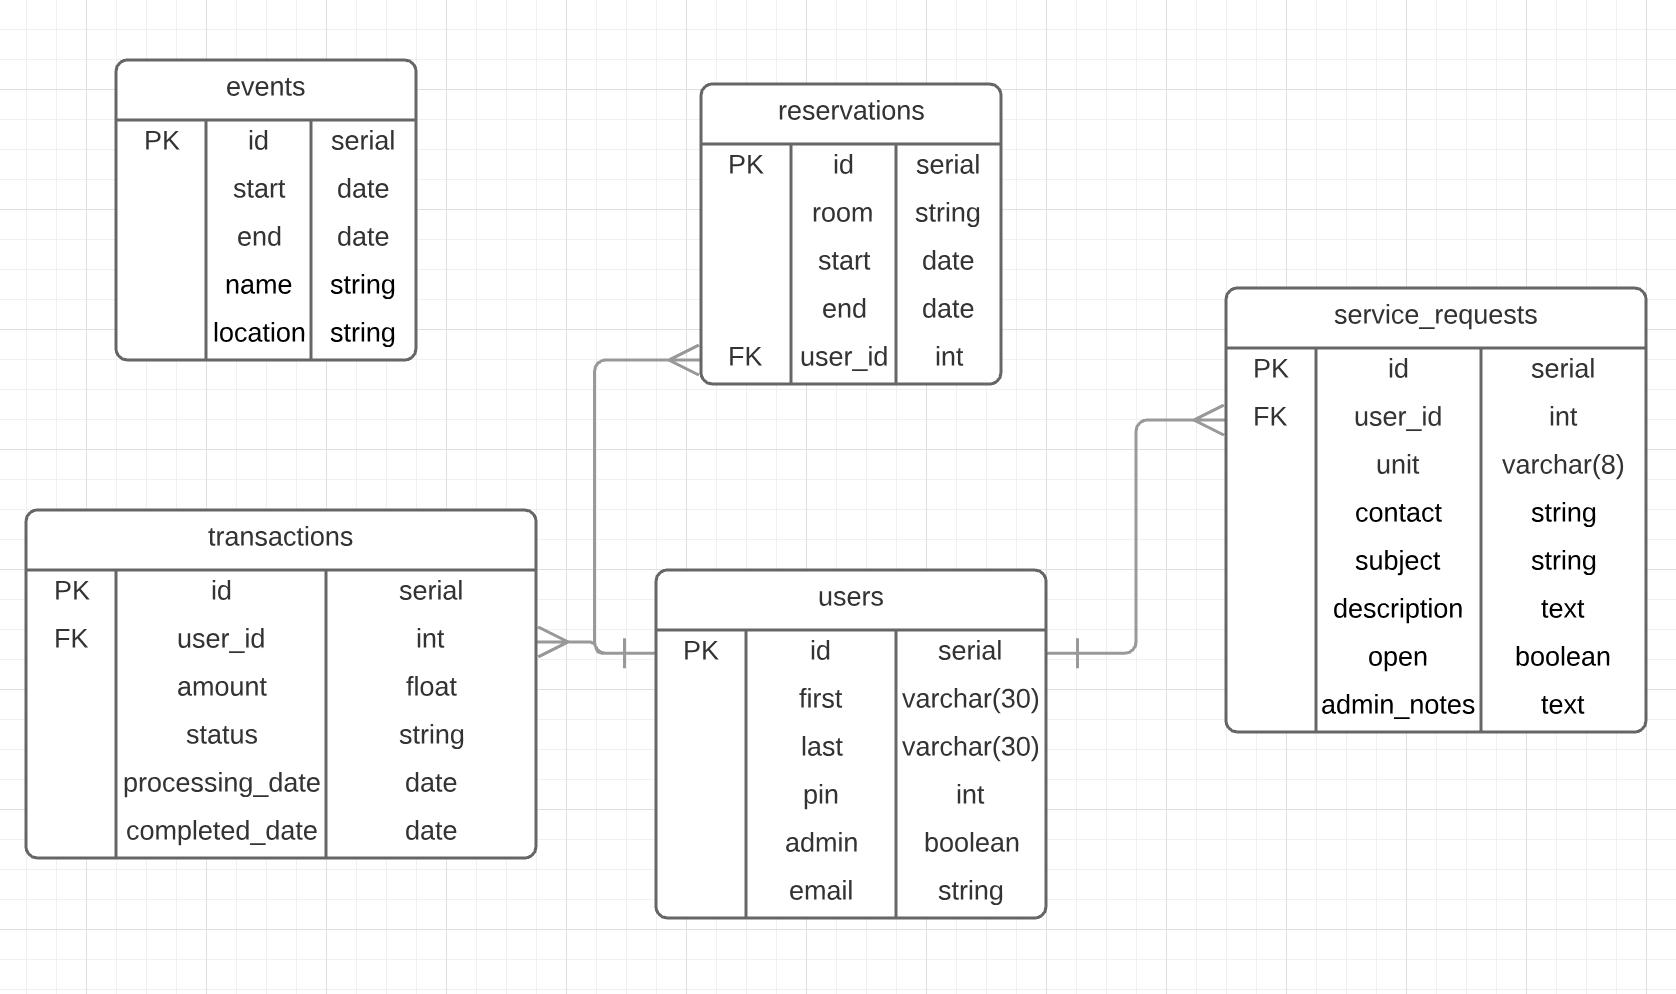
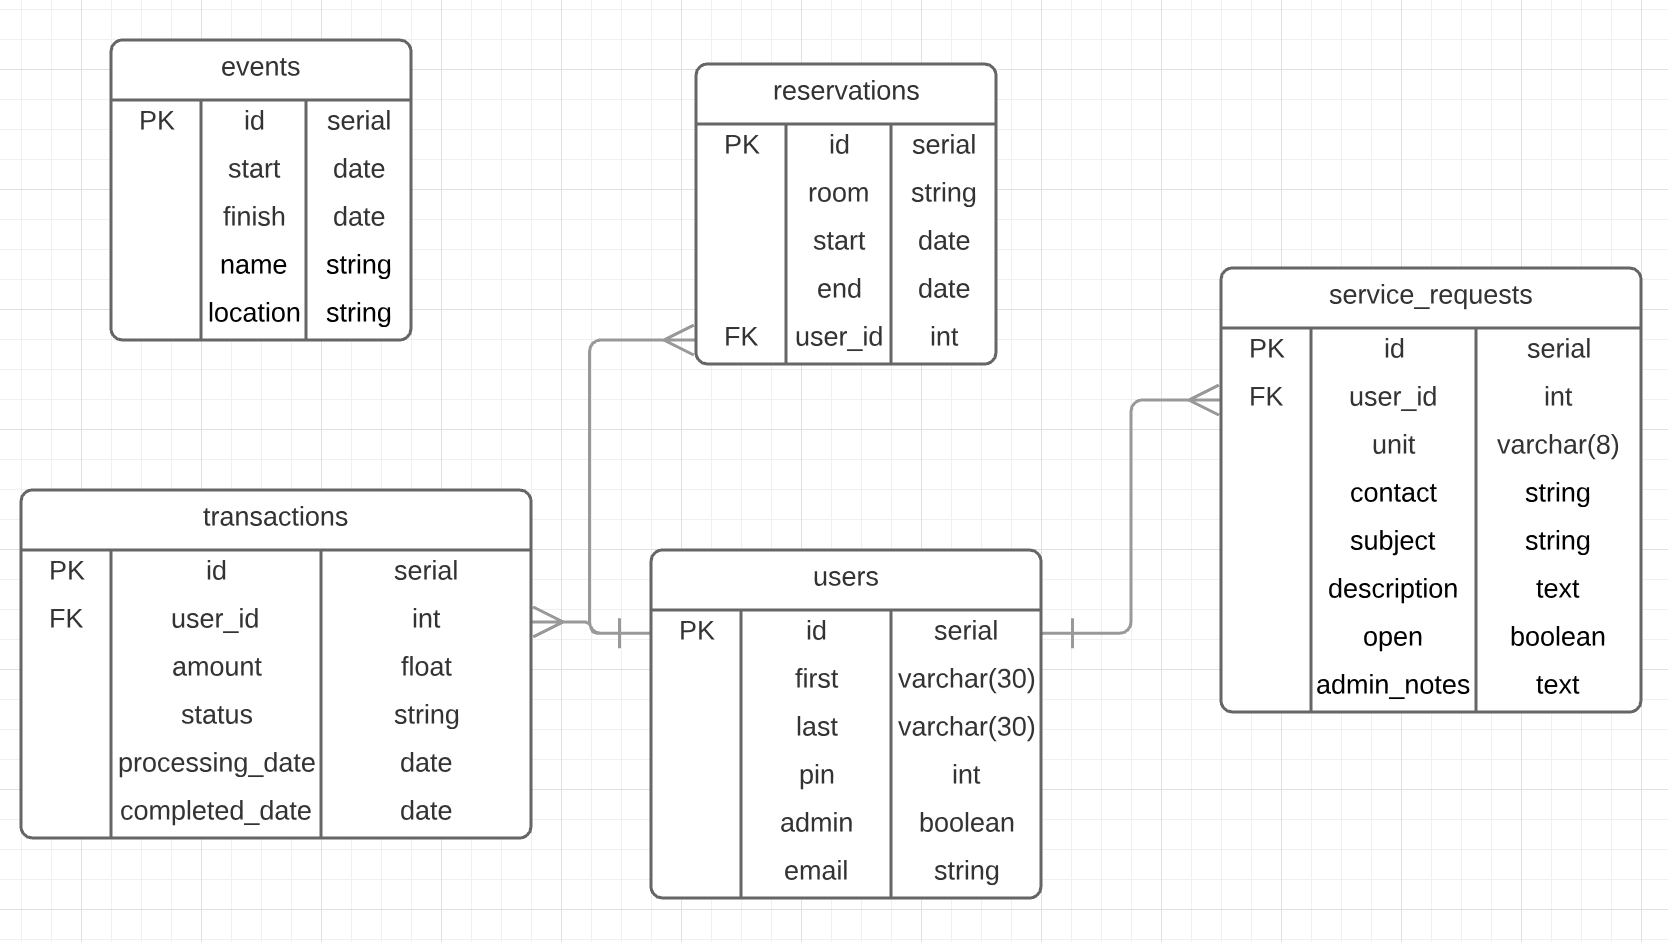
updated calendar component tests

diff --git a/cypress/integration/live.spec.js b/cypress/integration/live.spec.js
@@ -39,14 +39,54 @@ describe("LiveLy Application", () => {
     cy.get("#communityCalendar h2")
       .should("contain", "Community Calendar")
     
-    cy.get("#communityCalendar p")
+    cy.get("#communityCalendar i")
       .should("exist")
 
     cy.get("#communityCalendar")
       .click()
 
     cy.location()
-      .should("contain", "/calendar")
+      .should(location => {
+        expect(location.pathname).to.eq("/calendar")
+      })
+
+    cy.request(
+      "POST", 
+      "https://lively-app-server.herokuapp.com/events?startYear=2018&startMonth=5&startDate=20&startHour=9&startMinute=0&finishYear=2018&finishMonth=5&finishDate=20&finishHour=11&finishMinute=0", 
+      {
+        name: "Coffee and Pastries",
+        location: "Clubhouse",
+        description: "Stop by the clubhouse for complimentary pastries!"
+      }
+    )
+
+    cy.request(
+      "POST",
+      "https://lively-app-server.herokuapp.com/events?startYear=2018&startMonth=6&startDate=20&startHour=9&startMinute=0&finishYear=2018&finishMonth=6&finishDate=20&finishHour=11&finishMinute=0",
+      {
+        name: "Summer Kickoff Party",
+        location: "Pool",
+        description: "Come enjoy lemonade and fun!"
+      }
+    )
+
+    cy.request("https://lively-app-server.herokuapp.com/events")
+      .then(res => {
+        expect(res.status).to.eq(200)
+        expect(res.body.length).to.be.greaterThan(1)
+        expect(res.body[0]).to.have.property("name")
+        expect(res.body[0]).to.have.property("location")
+        expect(res.body[0]).to.have.property("description")
+        expect(res.body[0]).to.have.property("start")
+        expect(res.body[0]).to.have.property("finish")
+        expect(res.body[1]).to.have.property("name");
+        expect(res.body[1]).to.have.property("location");
+        expect(res.body[1]).to.have.property("description");
+        expect(res.body[1]).to.have.property("start");
+        expect(res.body[1]).to.have.property("finish");
+      })
+
+    cy.reload()
 
     cy.get("ul")
       .should("exist")
@@ -54,8 +94,10 @@ describe("LiveLy Application", () => {
     cy.get("li").eq(0)
       .find("h3")
       .should("exist")
+
+    cy.get("li").eq(0)
       .find("p")
-      .should("have.length", 2)
+      .should("have.length.at.least", 3)
   })
 
   it("allows an admin to add an event to the community events list", () => {

diff --git a/user-stories.md b/user-stories.md
@@ -18,8 +18,9 @@
 - Number of instances of button components rendered on the page equals the length of the buttons array in the app component
 - One button component (#communityCalendar) is rendered with an h2 containing "Community Calendar" and a calendar icon
 - When clicked, #communityCalendar navigates to /calendar
+- Event data set can be retrieved via a GET request to deployment-server/events and includes name, location, description, start time, and finish time
 - /calendar contains a ul
-- Each li in the list contains an h3 with the name of the event, a p with the location, a p with the time
+- There is an li for each event in the list containing an h3 with the name of the event, a p with the time, a p with the date, a p with the location, and an optional p with description
 
 #### As a manager, I want to be able to add an event to the community events list so that I don't have to call our developer to update the calendar.
 - On load, the index route loads a modal with an input for last name, a number input for user PIN, and a submit button
